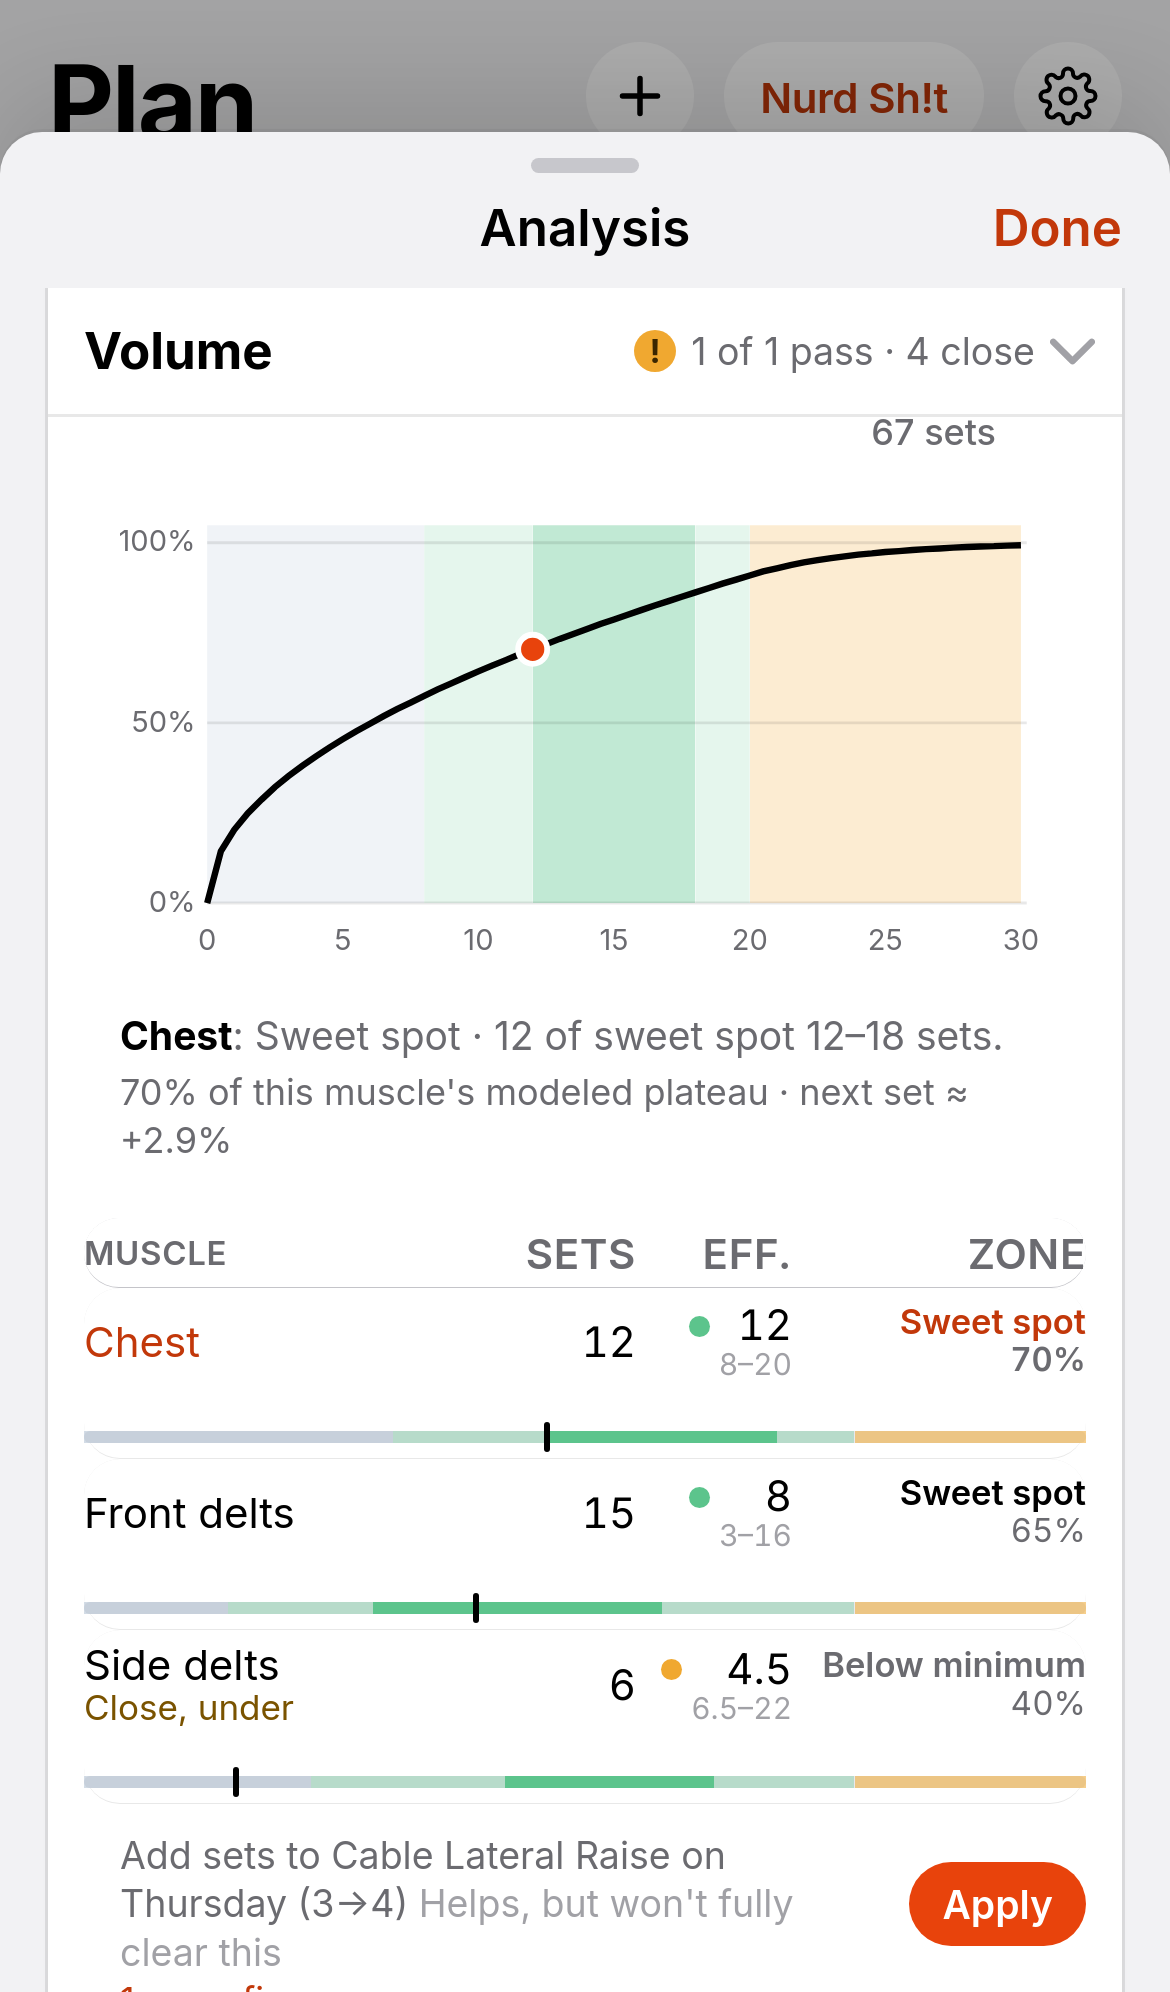
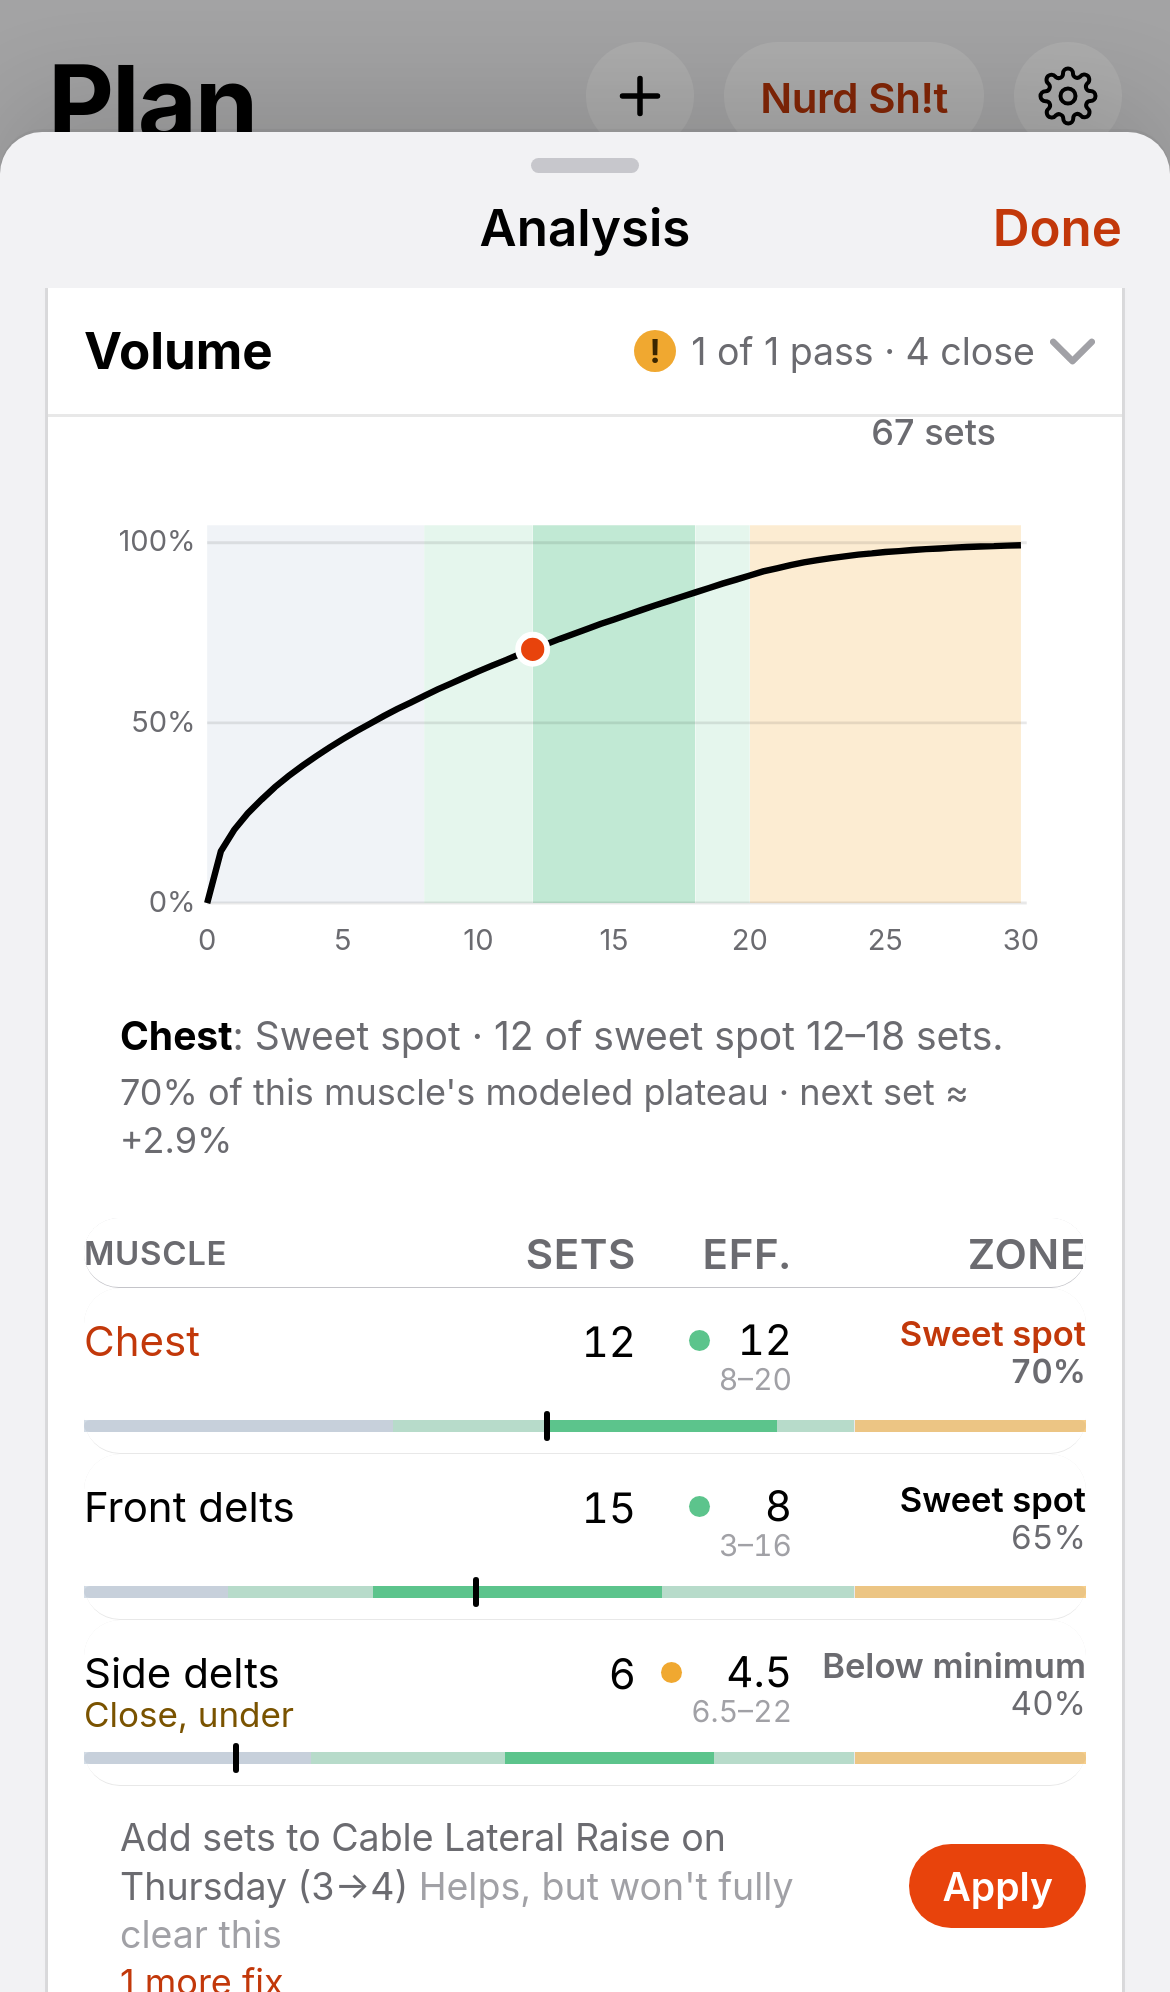
Storyboard QC: benchmark scale in value order with staggered labels and clamping; zone bars attached to their rows; plain session line legend

Changed region(s): [[0.0615, 0.6536, 0.9538, 1.0], [0.1231, 0.6536, 0.1538, 0.6847]]

diff --git a/storyboard/board.js b/storyboard/board.js
@@ -457,8 +457,16 @@ function renderAnalysis(){if(!AN)return;const dt=RD(),{A,C,d}=stats(),R=dt.rules
       const stk=(k,v)=>{const T=((RTD||{}).by_day||{})[k];if(!T)return hbar(dayN(k),v/bmx*100,v);
         const hh=Math.max(0,...Object.values(((rc.hours||{}).by_day||{})[k]||{}));return `<div class="hbar rtrow" data-day="${k}" data-total="${T.total}"><span class="vm hbs">${dayN(k)}</span><span class="hbt rtk"><span class="rtstk" style="--w:${T.total/bmx*100}%">${T.tiers.map(t=>`<i data-tier="${t.tier}" data-cost="${t.cost}" style="--tw:${T.total?t.cost/T.total*100:0}%;background:var(--tier-${TI(t.tier)})" title="${TL(t.tier)} · ${t.cost} pts · ${t.sets} sets"></i>`).join('')}</span></span><span class="vn num">${hh?hh+' h':''}</span></div>`};
       const RH=(rc.hours||{}).per_muscle||{},hoursHtml=()=>{const L=Object.entries(RH).sort((a,b)=>b[1].hours-a[1].hours);return L.length?`<div class="ash rhh"><span>Ready again, per muscle</span><span class="ashv">modeled</span></div><div class="rhrs">${L.map(([m,o])=>`<div class="rhr" data-m="${m}" data-h="${o.hours}">${mlk(m,'fatigue')}<span class="num">ready in about ${o.hours} h <small>${WD[DAYS.indexOf(o.day)]}</small></span></div>`).join('')}</div><p class="foot">Time after each muscle's hardest session of the week. A model from sets, effort and stretch, not a prediction of how you'll feel.</p>`:''};
-      const benchHtml=()=>{const b=rc.benchmarks,ref=recRef();if(!b)return '';const mxw=Math.max(b.week,...b.list.map(x=>x.week_cost))*1.08,P=v=>(v/mxw*100).toFixed(1),SH=n=>n.replace(/^Classic /,'').replace(/ body-part split| push\/pull\/legs/,s=>s===' body-part split'?' split':' PPL');
-        return `<div class="rbench" data-ratio="${b.ratio}"><div class="ash"><span>${(ref&&ref.label)||'Compared with common routines'}</span></div><p class="rbl">This week ≈ <b class="num">${b.ratio}×</b> a ${b.nearest.replace(/^Classic /,'').toLowerCase()}</p><div class="rbt">${b.list.map(x=>`<i style="left:${P(x.week_cost)}%" title="${x.name}"></i>`).join('')}<b style="left:${P(b.week)}%"></b></div><div class="rbn">${b.list.map(x=>`<span><em>${SH(x.name)}</em><span class="num">${Math.round(x.week_cost)}</span></span>`).join('')}<span class="me"><em>This week</em><span class="num">${Math.round(b.week)}</span></span></div></div>`};
+      // QC 645: the ladder is a real value scale. Domain = benchmarks ± 10% padding; benchmark labels stagger below (alternate rows),
+      // "This week" sits above its dot; a week outside the domain is clamped at the end with an arrow and a note.
+      const benchHtml=()=>{const b=rc.benchmarks,ref=recRef();if(!b)return '';const L=b.list.slice().sort((p,q)=>p.week_cost-q.week_cost),bl=L[0].week_cost,bh=L[L.length-1].week_cost,pad=(bh-bl)*.12,lo=bl-pad,hi=bh+pad;
+        const P=v=>Math.max(0,Math.min(100,(v-lo)/(hi-lo)*100)),out=b.week<lo?'lo':b.week>hi?'hi':'',SH=n=>n.replace(/^Classic /,'').replace(' body-part split',' split').replace(' push/pull/legs',' PPL');
+        const at=(p,cls,inner)=>`<span class="${cls}" style="left:${p.toFixed(1)}%;--tx:${p<12?'0%':p>88?'-100%':'-50%'}">${inner}</span>`;
+        const wp=P(b.week),wl=`${out==='lo'?'‹ ':''}This week <b class="num">${Math.round(b.week)}</b>${out==='hi'?' ›':''}`;
+        return `<div class="rbench" data-ratio="${b.ratio}" data-out="${out}"><div class="ash"><span>${(ref&&ref.label)||'Compared with common routines'}</span></div><p class="rbl">This week ≈ <b class="num">${b.ratio}×</b> a ${b.nearest.replace(/^Classic /,'').toLowerCase()}</p>
+          <div class="rbs"><div class="rbw">${at(wp,'rbme',wl)}</div><div class="rbt">${L.map(x=>`<i style="left:${P(x.week_cost).toFixed(1)}%" title="${x.name}"></i>`).join('')}<b class="${out?'clamp':''}" style="left:${wp.toFixed(1)}%"></b></div>
+          <div class="rbn">${L.map((x,k)=>at(P(x.week_cost),'rbl'+(k%2),`<em>${SH(x.name)}</em> <span class="num">${Math.round(x.week_cost)}</span>`)).join('')}</div></div>
+          ${out?`<p class="foot">This week is ${out==='lo'?'lighter than':'heavier than'} every routine on the scale, so its dot is pinned to the ${out==='lo'?'left':'right'} end.</p>`:''}</div>`};
       const rleg=RTD?`<div class="tierleg rtleg">${RTD.tiers.map(t=>`<span data-tier="${t.id}"><i style="background:var(--tier-${TI(t.id)})"></i>${RGL(t.label)}</span>`).join('')}</div>`:'';
       return gfx('recovery_cost',`<div class="hbars">${Object.entries(bd).map(([k,v])=>stk(k,v)).join('')||'<p class="foot">No training days yet.</p>'}</div>${Object.keys(bd).length?rleg:''}${benchHtml()}${hoursHtml()}`,{mod:1})
         +gfx('stimulus_per_fatigue',`<div class="hbars">${sm.map(([m,v])=>hbar(mlk(m,'fatigue'),v/smx*100,(+v).toFixed(2))).join('')}</div><p class="foot">Effective sets per fatigue point; lowest first.</p>`,{mod:1})
@@ -479,7 +487,7 @@ function renderAnalysis(){if(!AN)return;const dt=RD(),{A,C,d}=stats(),R=dt.rules
       const over=A.day.filter(x=>x.minutes>lim).length;
       return gfx('session_length',`<div class="slim"><span class="grow"><b>Session limit</b><small>${lim===sessDefault()?`Default for ${lv}`:'Your setting'} · saved on this device</small></span><span class="stp"><button class="btn grey xs" data-b="slim" data-d="-${SESSION_STEP}" aria-label="Shorter limit"${lim<=SESSION_RANGE[0]?' disabled':''}>−</button><span class="num slv" aria-live="polite">${lim} min</span><button class="btn grey xs" data-b="slim" data-d="${SESSION_STEP}" aria-label="Longer limit"${lim>=SESSION_RANGE[1]?' disabled':''}>+</button></span></div>
         <div class="group sess">${A.day.map(x=>`<div class="row"><span class="vm">${WD[DAYS.indexOf(x.day)]}</span><span class="sbar"><i style="--w:${x.minutes/mx2*100}%" class="${x.minutes>=SL.warn_min?'w':x.minutes>lim?'i':''}"></i><b style="--x:${lim/mx2*100}%"></b><b class="w" style="--x:${SL.warn_min/mx2*100}%"></b></span><span class="vn num">${Math.round(x.minutes)}</span></div>`).join('')||'<div class="row sub">No training days yet</div>'}</div>
-        <p class="foot">Minutes per day; lines at your ${lim}-min limit and the ${SL.warn_min}-min ${lv} limit.</p>
+        <p class="foot">Minutes per day. Grey line: your limit (${lim} min). Red line: too long for your level (${SL.warn_min} min).</p>
         ${top.length?`<div class="sgl ssgl"><div class="ash"><span>${over?'Trim to fit':'Room to fill'}</span><span class="ashv sub">best goal fit first</span></div>${sgx}</div>`:''}`)
       +`<div class="ckl">${ckRow('session_design')}</div>`+rest('session')}};
   const aplc=([a,i])=>`<div class="aplr aplc" data-k="${i}"><div class="grow"><p><b>Applied</b> · ${a.preview}</p>${a.asig===cur?'':'<p class="sub">The board changed after this. Undo puts the whole board back as it was just before Apply, so later edits are lost.</p>'}</div><button class="btn xs ink" data-b="unapply" data-k="${i}">Undo</button></div>`;

diff --git a/storyboard/sb.css b/storyboard/sb.css
@@ -1555,3 +1555,21 @@ html[data-theme=dark] .pmom.gold .pm-txt .eyebrow{color:#FFD88F}
 .mrow .mrs .mzl{font-size:11.5px}
 .rhr{flex-direction:column;align-items:flex-start;justify-content:center;gap:0;padding:3px 0;min-height:36px}
 .rhr .mlk{max-width:100%;font-size:13px}
+/* QC 645: benchmark scale in value order (staggered labels), zone bar attached to its row */
+.rbs{position:relative;margin:0 4px}
+.rbw{position:relative;height:18px}
+.rbs .rbt{margin:2px 0 0}
+.rbn{display:block;position:relative;height:44px;margin-top:4px}
+.rbme,.rbl0,.rbl1{position:absolute;transform:translateX(var(--tx));white-space:nowrap;font-size:11px;line-height:1.2}
+.rbme{top:0;color:var(--accent-press)}.rbme b{color:var(--accent-press)}
+.rbl0{top:0}.rbl1{top:20px}
+.rbl0 em,.rbl1 em{font-style:normal;color:var(--text-2)}.rbl0 .num,.rbl1 .num{font-weight:600;color:var(--ink)}
+.rbl1::before{content:'';position:absolute;left:calc(var(--tx) * -1);top:-20px;height:18px;border-left:1px dotted var(--line-strong)}
+.rbt b.clamp{box-shadow:0 0 0 2px var(--accent-tint)}
+.mtab .mrow{align-content:start;row-gap:0}
+.mtab .mrow.hz{min-height:0;padding:7px 0 7px}
+.mtab .mrow.hz>.mrn,.mtab .mrow.hz>.mrc{min-height:30px;align-self:center}
+.mtab .mrow span.mzb{margin:3px 0 0}
+.rbme,.rbl0,.rbl1,.rbme *,.rbl0 *,.rbl1 *{line-height:14px;font-size:11px}
+.rbl1{top:22px}.rbl1::before{top:-22px;height:20px}.rbn{height:40px}
+.rbn>span{display:block;text-align:left}

diff --git a/storyboard/ARCHITECTURE-web-storyboard.md b/storyboard/ARCHITECTURE-web-storyboard.md
@@ -526,3 +526,4 @@ The suite runs all three (`r3*` checks).
 - **Rounded traps (trapround, Oct 31, 2026, Mr Dude; replaces the yoke):** the front upper traps are rounded, organic shapes (cubic outlines, mirrored). They're fuller than the original and stop ~8-15 units short of the head, so a band of body-grey neck slope stays between the trap tops and the jaw; their bottoms sit a little closer to the pecs. Same ids/regions, hit areas, volume fills and trend colours. Head, neck and back are unchanged. Shot 76a.
 - **Plan (Oct 31, 2026, Mr Dude):** the Build tab is shown as **Plan** everywhere the user sees it: tab bar (`TABS`, landscape `tabsSheet`), headers (board + legacy list), the Settings back button, and copy ("which routines Plan suggests", "picked in Plan", "Undo it in Plan", "until you leave Plan"). Ids, routes (`#build…`), function names and files keep 'build'. Full-width maps: the Analysis sheet map (`.anh .anmap`) and every Nerd Sh*t map (`#learnbody`, `#lm`, `#lx`) are two equal columns at the full content width, with height following the width; the Learn maps use the cropped viewBox (`MAPCROP`) so the figures fill it. Shots 77a-c (+77b2).
 - **Analysis2 + volume model vol3 (Oct 31, 2026, Mr Dude / Coach):** "Nerd Sh*t" → **Nurd Sh!t**. Coach's `volume-model.json` loads as `RD.VM`. In `logic/progcheck.js`: `credit()`/`eff()` = rating × prox(RIR + role offset) (planned RIR 2 compound / 1 isolation); weekly totals round half-up to 0.5 (`r05`) before `col()`; `stim()` = sqrt(x/D)/1.1 to the diminishing point, then plateau (no `k_by_muscle`); `zones()`/`zoneOf()` read `targets.json volume_zones`; `sessP()`/`sessionMinutes(dt,tiles,level)` read `rules.json session_length.by_level`, and `message()` fills `{warn_min}`/`{info_min}`. In `logic/analysis.js`: `sessionHours`/`weekHours` (hours_formula), `benchVs` (recovery.reference benchmarks), `swapRecord` (swaps.schema; matches all 35 reference swaps). The Analysis sheet has one per-muscle table (sets / effective / zone label + % of this muscle's modeled plateau, with a zone bar) and zone bands on the curve and the muscle sheet. Recovery shows "ready in about N h" per muscle and the week vs 4 benchmark routines (no pts). There's a session-limit stepper (default = the level's info_min, saved on the device) with fill/trim suggestions weighted by `goal_muscle_weights`. Swap cards show the fatigue delta plus "Drops X below its minimum (a of b sets)". Notes are `explain.so_what` with a "Nurd Sh!t ›" chip. Shots 79a-*, 79b.
+- **QC on 645de2a (Oct 31, 2026, CoS):** the recovery benchmark scale is now a real value scale: the domain is the benchmarks ±12%, and dots and labels are placed by value (labels stagger in 2 rows, 'This week' sits above its dot, and a week outside the range is clamped with ‹/› and a note). Each volume-table zone bar is attached under its own row, with the divider after it. The Session legend reads 'Grey line: your limit. Red line: too long for your level.'
